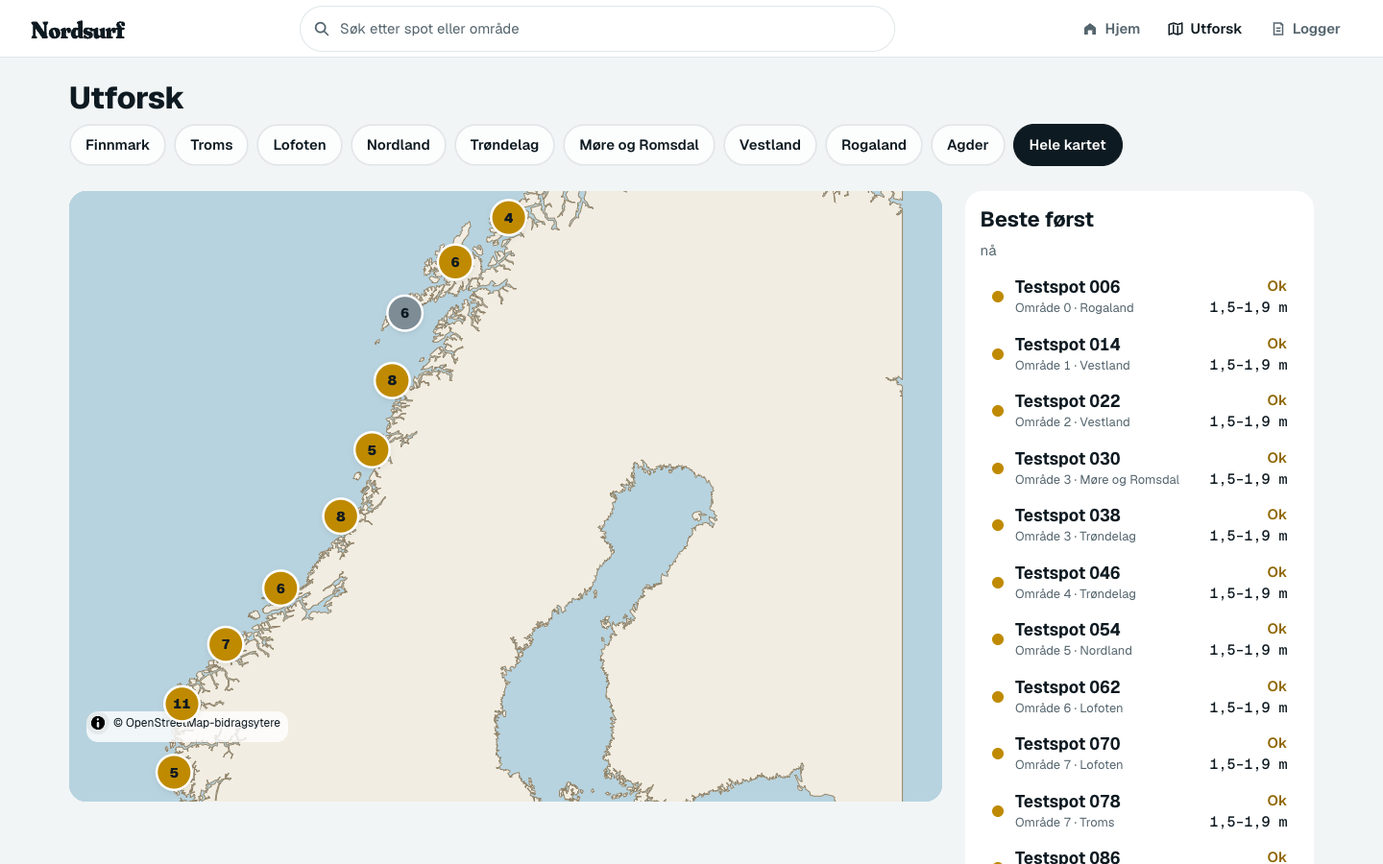
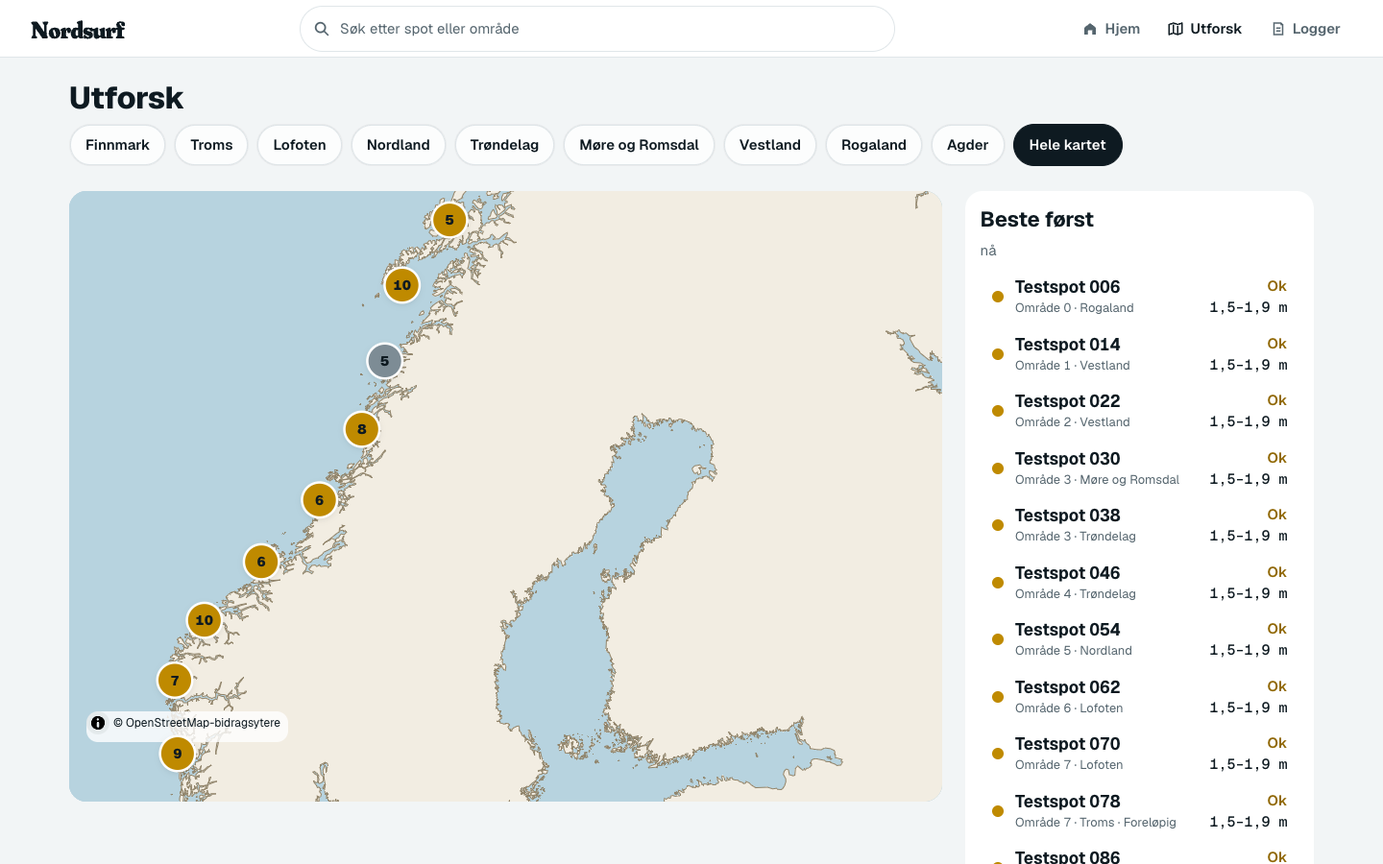
Forbud (Theodor 16.10, svar 3.3): «Surfing forbudt nå» og perioden i stedet for stjerner og ord - bare visning
I forbudsperioden: Hjem, tabell, søk, Utforsk (kort, liste, markører) og spotsiden (vurdering, langtidsvarsel,
dagfaner, kort) viser «Surfing forbudt (nå)» og «1. okt–31. mars, fuglefredning», ingen stjerner eller høyde;
spoten er aldri i «Beste økt»/«Neste beste» og farger ikke klyngen (st 0). Utenfor perioden vises den vanlig,
med en linje om forbudet ved stedsnavnet. godkjenn_spot.py skriver «grunn» (fuglefredning, naturreservat …).
Ratingen og varselet er urørt (timene merkes bare i en kopi på spotsiden). Tester i test_skalering_browser.
Fysikk-kontrollør: IKKE GODKJENT (lista utenfor kartet viste høyde; grafen/dagfanene beholdt stjerner) → rettet.

diff --git a/docs/js/ui.js b/docs/js/ui.js
@@ -28,9 +28,32 @@
     return (s.restriksjoner || []).some(r=> ["ferdselsforbud", "surfeforbud"].includes(r.type) && ["sjø", "strand", "begge"].includes(r.gjelder)
       && (!r.fra || !r.til || (r.fra <= r.til ? md >= r.fra && md <= r.til : md >= r.fra || md <= r.til)));
   }
+  // Theodor 16.10.2026: i forbudsperioden erstattes stjerner og ord med «Surfing forbudt nå» og perioden
+  // («1. okt–31. mars, fuglefredning»); utenfor perioden vises spoten vanlig, med en linje om forbudet.
+  const MND = ["jan", "feb", "mars", "april", "mai", "juni", "juli", "aug", "sep", "okt", "nov", "des"];
+  const mdTekst = (md)=>{ const [m, d] = md.split("-").map(Number); return `${d}. ${MND[m-1]}`; };
+  const forbudRestr = (s)=> (s.restriksjoner || []).filter(r=> ["ferdselsforbud", "surfeforbud"].includes(r.type) && ["sjø", "strand", "begge"].includes(r.gjelder));
+  const periodeTekst = (r)=> `${r.fra && r.til ? `${mdTekst(r.fra)}–${mdTekst(r.til)}` : "hele året"}${r.grunn ? ", " + r.grunn : ""}`;
+  function forbudInfo(s, t){
+    const md = osloMD(t==null ? Date.now() : t);
+    const r = forbudRestr(s).find(r=> !r.fra || !r.til || (r.fra <= r.til ? md >= r.fra && md <= r.til : md >= r.fra || md <= r.til));
+    return r ? {tittel: "Surfing forbudt nå", periode: periodeTekst(r), r} : null;
+  }
+  const forbudLinje = (s)=>{ const rs = forbudRestr(s); return rs.length ? rs.map(r=> `${r.type==="surfeforbud" ? "Surfing" : "Ferdsel"} forbudt ${periodeTekst(r)}`).join(" · ") : null; };
+  // nå-visningen i lister og kort: i forbudsperioden ingen stjerner, ordet «Surfing forbudt nå», ingen høyde
+  function naaVisning(s, h){
+    if(forbudNa(s)) return {st: 0, oh: {ord: "Surfing forbudt nå", hoyde: null, forbud: true}};
+    return {st: stars(h), oh: ordOgHoyde(h)};
+  }
+  // spotsiden: timene i forbudsperioden merkes (_forbud) i en kopi - grafen, dagfanene og kortene viser da ingen
+  // stjerner, ordet «Surfing forbudt» og ingen høyde. Selve varselet (og ratingen) er urørt.
+  function forbudKopi(s){
+    if(!forbudRestr(s).length || !s.hours) return s;
+    return {...s, hours: s.hours.map(h=> h && forbudInfo(s, Date.parse(h.t)) ? {...h, stars: 0, faded: 0, _forbud: true} : h)};
+  }
   const nyForelopig = (s)=> s.status==="forelopig" && !(s.forelopig_fra && Date.now() - Date.parse(s.forelopig_fra) >= FORELOPIG_DAGER*864e5);
   const iBesteOkt = (s, t)=> !nyForelopig(s) && !forbudNa(s, t);
-  const merker = (s)=> [s.status==="forelopig" ? "Foreløpig" : null, forbudNa(s) ? "Forbud nå" : null].filter(Boolean);
+  const merker = (s)=> [s.status==="forelopig" ? "Foreløpig" : null, forbudRestr(s).length ? forbudLinje(s) : null].filter(Boolean);
   const omrMerker = (s)=> [s.area, ...merker(s)].filter(Boolean).join(" · ");
   const stedText = (s)=>{ const r = regionOf(s); return [s.area && s.area!==r ? `${s.area} · ${r}` : (s.area || r), ...merker(s)].join(" · "); };
   const regions = ()=> (DATA.regions || []).map(r=>r.name);
@@ -92,20 +115,21 @@
     // dagssammendraget fra publish.best_hour(): «miss» = tallet/lyset mangler, «dark» = mørkt hele dagen, «over» = dagens lys er over
     const d = (s.dager || []).find(x=>x.d===key);
     if(dayOver(d)) return {cls:"over", st:null, h:null, t:null};
+    if(forbudInfo(s, Date.parse(key + "T12:00:00Z"))) return {cls:"forbud", st:null, h:null, t:null};   // surfing forbudt den dagen
     if(d && d.status==="dark") return {cls:"dark", st:null, h:null, t:null};   // før !d.h - en mørk dag har ingen time
     if(!d || d.status==="miss" || !d.h) return {cls:"miss", st:null, h:null, t:null};
     const st = stars(d.h);
     return {cls:`r-${min5(st)}`, st, h:d.h, t:d.h.t, start:d.start || d.h.t, slutt:d.slutt || d.h.t, lo:d.lo, hi:d.hi};
   }
   function ukeHtml(s, days, withLetters){
-    const cells = days.map(d=>{ const b = dayBest(s, d.key); const n = b.st!=null && b.st>=1 ? b.st : ""; const title = b.cls==="over" ? `${d.lang}: dagens lys er over` : b.cls==="miss" ? `${d.lang}: mangler data` : b.cls==="dark" ? `${d.lang}: mørkt` : `${d.lang}: ${b.st} ${b.st===1?"stjerne":"stjerner"}`; return `<i class="${b.cls}" title="${esc(title)}">${n}</i>`; }).join("");
+    const cells = days.map(d=>{ const b = dayBest(s, d.key); const n = b.st!=null && b.st>=1 ? b.st : ""; const title = b.cls==="forbud" ? `${d.lang}: surfing forbudt` : b.cls==="over" ? `${d.lang}: dagens lys er over` : b.cls==="miss" ? `${d.lang}: mangler data` : b.cls==="dark" ? `${d.lang}: mørkt` : `${d.lang}: ${b.st} ${b.st===1?"stjerne":"stjerner"}`; return `<i class="${b.cls}" title="${esc(title)}">${n}</i>`; }).join("");
     const letters = withLetters ? days.map((d, k)=>`<b class="${d.idag?"idag":""}">${esc(d.kort)}</b>`).join("") : "";
     return `<span class="uke" aria-hidden="true">${letters}${cells}</span>`;
   }
   function ukeAria(s, days){
-    return days.map(d=>{ const b = dayBest(s, d.key); return b.cls==="over" ? `${cap(d.lang)}: dagens lys er over` : b.cls==="miss" ? `${cap(d.lang)} mangler data` : b.cls==="dark" ? `${cap(d.lang)} mørkt` : `${cap(d.lang)} ${b.st} ${b.st===1?"stjerne":"stjerner"}`; }).join(", ");
+    return days.map(d=>{ const b = dayBest(s, d.key); return b.cls==="forbud" ? `${cap(d.lang)}: surfing forbudt` : b.cls==="over" ? `${cap(d.lang)}: dagens lys er over` : b.cls==="miss" ? `${cap(d.lang)} mangler data` : b.cls==="dark" ? `${cap(d.lang)} mørkt` : `${cap(d.lang)} ${b.st} ${b.st===1?"stjerne":"stjerner"}`; }).join(", ");
   }
-  function bestNow(s){ const h = naaOf(s); return {st: stars(h), hh: h ? (h.surf_height||0) : 0}; }
+  function bestNow(s){ const h = naaOf(s); const f = forbudNa(s); return {st: f ? 0 : stars(h), hh: f || !h ? 0 : (h.surf_height||0)}; }
   const byRatingNow = (a, b)=>{ const x = bestNow(a), y = bestNow(b); return y.st - x.st || y.hh - x.hh || a.name.localeCompare(b.name, "nb"); };
 
   /* ---------- hvem bryr brukeren seg om (Tillegg 2, punkt 3) ---------- */
@@ -167,7 +191,7 @@
     const favs = DATA.spots.filter(s=>isFavSpot(s.id));
     if(!favs.length) return "";
     return `<section class="sek"><h2 class="h2">Favoritter</h2></section><div class="favrad">${favs.map(s=>{
-      const h = naaOf(s), st = stars(h), oh = ordOgHoyde(h), vind = windText(h);
+      const h = naaOf(s), {st, oh} = naaVisning(s, h), vind = windText(h);
       return `<a class="kort tap favkort r-${min5(st)}" href="#spot=${esc(s.id)}" aria-label="${esc(`${s.name}: ${oh.ord}${oh.hoyde ? ", " + oh.hoyde + " m" : ""}${vind ? ", " + vind : ""}. ${ukeAria(s, days)}. Åpne spoten`)}">
         <div class="navn">${esc(s.name)}</div><div class="omr">${esc(s.area||"")} · nå</div>
         <div class="vurd"><div>${st ? starsSVG(st, 0) : ""}<div class="ord">${esc(oh.ord)}</div></div>${oh.hoyde ? `<div class="hoyde">${esc(oh.hoyde)}<small>m</small></div>` : ""}</div>
@@ -181,7 +205,7 @@
     return [...by.keys()].sort((a, b)=> (order.indexOf(a)+1 || 99) - (order.indexOf(b)+1 || 99) || a.localeCompare(b, "nb")).map(r=>({region: r, spots: by.get(r)}));
   }
   function radHtml(s, days){
-    const h = naaOf(s), st = stars(h), oh = ordOgHoyde(h);
+    const h = naaOf(s), {st, oh} = naaVisning(s, h);
     return `<a class="rad r-${min5(st)}" href="#spot=${esc(s.id)}" aria-label="${esc(`Åpne ${s.name}: ${oh.ord}${oh.hoyde ? ", " + oh.hoyde + " m" : ""}. ${ukeAria(s, days)}`)}">
       <span class="nm"><b>${esc(s.name)}</b><small>${esc(omrMerker(s))}</small><span class="na">${esc(oh.ord)}${oh.hoyde ? `<span class="num">${esc(oh.hoyde)} m</span>` : ""}</span></span>
       ${ukeHtml(s, days, false)}</a>`;
@@ -213,9 +237,10 @@
       const rows = [...g.spots].sort(byRatingNow).slice(0, all ? n : 5);
       return `<tr class="g"><td colspan="${2+days.length}">${esc(g.region)} <small>· ${n} ${n===1?"spot":"spots"}</small>${!all ? ` <button type="button" class="ghost liten visalle" data-region="${esc(g.region)}">Vis alle ${n}</button>` : ""}</td></tr>` +
         rows.map(s=>{
-          const h = naaOf(s), st = stars(h), oh = ordOgHoyde(h);
+          const h = naaOf(s), {st, oh} = naaVisning(s, h);
           const cells = days.map(d=>{ const b = dayBest(s, d.key);
             if(b.cls==="over") return `<td class="c"><span class="celle over" title="${esc(d.lang)}: dagens lys er over"></span></td>`;
+            if(b.cls==="forbud") return `<td class="c"><span class="celle null" title="${esc(d.lang)}: surfing forbudt">Forbudt</span></td>`;
             if(b.cls==="miss") return `<td class="c"><span class="celle miss" title="${esc(d.lang)}: mangler data">–</span></td>`;
             if(b.cls==="dark") return `<td class="c"><span class="celle miss" title="${esc(d.lang)}: mørkt">–</span></td>`;
             // grunnregelen (PR #12 punkt b): tallet mangler → «–»; ekte 0 (flatt, treffer ikke …) → ordet i grå rute, aldri «0,0»
@@ -265,7 +290,7 @@
     return DATA.spots.filter(hit).sort((a, b)=> pre(a) - pre(b) || byRatingNow(a, b));
   }
   function sradHtml(s){
-    const h = naaOf(s), st = stars(h), oh = ordOgHoyde(h);
+    const h = naaOf(s), {st, oh} = naaVisning(s, h);
     return `<a class="srad r-${min5(st)}" href="#spot=${esc(s.id)}" role="option"><span class="prikk" aria-hidden="true"></span><span class="nm"><b>${esc(s.name)}</b><small>${esc(stedText(s))}</small></span><span class="na">${esc(oh.ord)}${oh.hoyde ? `<span class="num">${esc(oh.hoyde)} m</span>` : ""}</span></a>`;
   }
   function resultsHtml(q){
@@ -391,7 +416,7 @@
       return;
     }
     if(S.tIso){ const i = s.hours.findIndex(h=>h.t===S.tIso); S.idx = i >= 0 ? i : null; S.tIso = null; }
-    Spot.render(root, s, S, {regionOf, stedText, close: closeSpot, nowIdx, usable, known, stars, dkOf, heightText, isDesktop});
+    Spot.render(root, forbudKopi(s), S, {regionOf, stedText, forbudInfo, forbudLinje, close: closeSpot, nowIdx, usable, known, stars, dkOf, heightText, isDesktop});
   }
   function render(){
     if(!DATA) return;
@@ -428,6 +453,6 @@
   }
   function refresh(){ if(DATA && started && S.view!=="sok") render(); }
   function goLegacy(mode){ const map = {home:"hjem", list:"hjem", peek:"hjem", half:"hjem", map:"utforsk", logger:"logger", innstillinger:"innstillinger"}; go(map[mode] || "hjem"); }
-  window.Front = { start, refresh, openSpot, go: goLegacy, state: S, closeSpot, helpers: {regionOf, stedText, forbudNa, iBesteOkt, nowIdx, usable, known, stars, lightOf, dayBest, heightText, ordOgHoyde, windText, weekDays, search, norm, bestSession, byRatingNow, dkOf, isDesktop, naaOf, regions, chosenRegion, setRegion, scope} };
+  window.Front = { start, refresh, openSpot, go: goLegacy, state: S, closeSpot, helpers: {regionOf, stedText, forbudNa, forbudInfo, forbudLinje, naaVisning, iBesteOkt, nowIdx, usable, known, stars, lightOf, dayBest, heightText, ordOgHoyde, windText, weekDays, search, norm, bestSession, byRatingNow, dkOf, isDesktop, naaOf, regions, chosenRegion, setRegion, scope} };
   window.start();
 })();

diff --git a/docs/js/utforsk.js b/docs/js/utforsk.js
@@ -24,14 +24,19 @@
   }
   // verdi per spot for valgt dag: nå = nå-timen; ellers dagens beste dagslystime (publish.best_hour)
   function valueFor(s, dayKeyOrNull){
+    // Theodor 16.10.2026: i forbudsperioden ingen stjerner - ordet «Surfing forbudt (nå)», og st 0 så spoten aldri
+    // farger klyngen (klyngefargen er beste st i klyngen). Bare visning.
     if(dayKeyOrNull!=null){
       const b = H().dayBest(s, dayKeyOrNull);
+      if(b.cls==="forbud"){ const fi = H().forbudInfo(s, Date.parse(dayKeyOrNull + "T12:00:00Z")); return {st:0, word:"Surfing forbudt", forbud:fi, miss:false, h:null, t:null, aria:`${s.name}: surfing forbudt (${fi ? fi.periode : ""})`}; }
       if(b.cls==="miss") return {st:0, word:"–", miss:true, h:null, t:null, aria:`${s.name}: tallet mangler`};
       if(b.cls==="dark") return {st:0, word:"Mørkt", miss:false, h:null, t:null, aria:`${s.name}: mørkt hele dagen`};
       const w = b.h ? ratingWord(b.h) : "–";
       return {st:b.st, word:w, miss:false, h:b.h, t:b.t, aria:`${s.name}: ${w}${b.st ? ", " + STR.starsAria(b.st, 0) : ""}`};
     }
     const h = H().naaOf(s);
+    const fi = H().forbudInfo(s);
+    if(fi) return {st:0, word:fi.tittel, forbud:fi, miss:false, h, t: h ? h.t : null, aria:`${s.name}: ${fi.tittel} (${fi.periode})`};
     if(!H().known(h)) return {st:0, word:"–", miss:true, h, t: h ? h.t : null, aria:`${s.name}: tallet mangler`};
     const st = H().stars(h), w = ratingWord(h);
     return {st, word:w, miss:false, h, t:h.t, aria:`${s.name}: ${w}${st ? ", " + STR.starsAria(st, 0) : ""}`};
@@ -91,16 +96,16 @@
     const v = valueFor(s, S.utforskDay); const h = v.h;
     const t = v.t ? new Date(v.t) : null;
     const tid = S.utforskDay==null ? "nå" : t ? `${fmtWdLong.format(t)} kl. ${fmtHour.format(t)}` : cap(fmtWdLong.format(new Date(S.utforskDay + "T11:00:00Z")));
-    const hoyde = H().ordOgHoyde(h).hoyde;
+    const hoyde = v.forbud ? null : H().ordOgHoyde(h).hoyde;
     return `<div class="topp"><div><div class="navn">${esc(s.name)}</div><div class="omr">${esc(H().stedText(s))} · ${esc(tid)}</div></div><button type="button" class="iconbtn lukk" id="kortLukk" aria-label="Lukk"><svg viewBox="0 0 20 20" aria-hidden="true"><path d="m5 5 10 10M15 5 5 15" stroke="currentColor" stroke-width="2" stroke-linecap="round"/></svg></button></div>
-      <div class="vurd r-${min5(v.st)}">${v.st ? starsSVG(v.st, 0) : ""}<span class="ord">${esc(v.word)}</span>${hoyde ? `<span class="num">${esc(hoyde)} m</span>` : ""}</div>
-      <div class="fakta"><div>Surf<b>${hoyde ? `${esc(hoyde)} m` : h && h.surf_height!=null ? esc(Spot.kroppshoyde(h) || ratingWord(h)) : "–"}</b></div><div>Svell ute<b>${h && h.swell_offshore!=null ? `${nf1.format(h.swell_offshore)} m${h.period!=null ? ` · ${nf0.format(h.period)} s` : ""}${h.dir_offshore!=null ? ` fra ${esc(compass(h.dir_offshore))}` : ""}` : "–"}</b></div><div>Vind<b>${h && h.wind_speed!=null ? `${nf0.format(h.wind_speed)} m/s ${esc(windLabel(h))}` : "–"}</b></div></div>
+      <div class="vurd r-${min5(v.st)}">${v.st ? starsSVG(v.st, 0) : ""}<span class="ord">${esc(v.word)}</span>${hoyde ? `<span class="num">${esc(hoyde)} m</span>` : ""}${v.forbud ? `<span class="omr">${esc(v.forbud.periode)}</span>` : ""}</div>
+      <div class="fakta"><div>Surf<b>${v.forbud ? "–" : hoyde ? `${esc(hoyde)} m` : h && h.surf_height!=null ? esc(Spot.kroppshoyde(h) || ratingWord(h)) : "–"}</b></div><div>Svell ute<b>${h && h.swell_offshore!=null ? `${nf1.format(h.swell_offshore)} m${h.period!=null ? ` · ${nf0.format(h.period)} s` : ""}${h.dir_offshore!=null ? ` fra ${esc(compass(h.dir_offshore))}` : ""}` : "–"}</b></div><div>Vind<b>${h && h.wind_speed!=null ? `${nf0.format(h.wind_speed)} m/s ${esc(windLabel(h))}` : "–"}</b></div></div>
       <button type="button" class="primary" id="kortApne">Se hele varselet</button>`;
   }
   function offListeHtml(region){
     const ps = Kart.offMapSpots().filter(p=> H().regionOf(p.s)===region).map(p=>({s: p.s, v: valueFor(p.s, S.utforskDay)})).sort((a, b)=> b.v.st - a.v.st || a.s.name.localeCompare(b.s.name, "nb"));
     return `<div class="topp"><div><div class="navn">${esc(region)}</div><div class="omr">${ps.length} ${ps.length===1 ? "spot" : "spots"} utenfor kartet</div></div><button type="button" class="iconbtn lukk" id="kortLukk" aria-label="Lukk"><svg viewBox="0 0 20 20" aria-hidden="true"><path d="m5 5 10 10M15 5 5 15" stroke="currentColor" stroke-width="2" stroke-linecap="round"/></svg></button></div>
-      <div class="alfa offliste" role="list">${ps.map(({s, v})=>{ const hoyde = H().ordOgHoyde(v.h).hoyde; return `<a class="srad r-${min5(v.st)}" href="#spot=${esc(s.id)}${v.t ? "&t=" + esc(v.t) : ""}" role="listitem" aria-label="${esc(v.aria)}"><span class="prikk${v.miss ? " miss" : ""}" aria-hidden="true"></span><span class="nm"><b>${esc(s.name)}</b><small>${esc(H().stedText(s))}</small></span><span class="na">${esc(v.word)}${hoyde ? `<span class="num">${esc(hoyde)} m</span>` : ""}</span></a>`; }).join("")}</div>`;
+      <div class="alfa offliste" role="list">${ps.map(({s, v})=>{ const hoyde = v.forbud ? null : H().ordOgHoyde(v.h).hoyde; return `<a class="srad r-${min5(v.st)}" href="#spot=${esc(s.id)}${v.t ? "&t=" + esc(v.t) : ""}" role="listitem" aria-label="${esc(v.aria)}"><span class="prikk${v.miss ? " miss" : ""}" aria-hidden="true"></span><span class="nm"><b>${esc(s.name)}</b><small>${esc(H().stedText(s))}</small></span><span class="na">${esc(v.word)}${hoyde ? `<span class="num">${esc(hoyde)} m</span>` : ""}</span></a>`; }).join("")}</div>`;
   }
   function renderKort(){
     const el = $("#kartKort"); const s = S.picked && DATA.spots.find(x=>x.id===S.picked);
@@ -118,7 +123,7 @@
       .sort((a, b)=> b.v.st - a.v.st || ((b.v.h && b.v.h.surf_height)||0) - ((a.v.h && a.v.h.surf_height)||0) || a.s.name.localeCompare(b.s.name, "nb"));
     const dag = S.utforskDay==null ? "nå" : cap(fmtWdLong.format(new Date(S.utforskDay + "T11:00:00Z")));
     const shown = S.listeAlle ? spots : spots.slice(0, 30);
-    el.innerHTML = `<div class="kort"><h2 class="h2" style="margin-bottom:8px">Beste først</h2><p class="sub" style="margin:0 0 8px">${esc(dag)}${reg ? ` · ${esc(reg)}` : ""}</p><div class="alfa lang" role="list">${shown.map(({s, v})=>{ const hoyde = H().ordOgHoyde(v.h).hoyde;
+    el.innerHTML = `<div class="kort"><h2 class="h2" style="margin-bottom:8px">Beste først</h2><p class="sub" style="margin:0 0 8px">${esc(dag)}${reg ? ` · ${esc(reg)}` : ""}</p><div class="alfa lang" role="list">${shown.map(({s, v})=>{ const hoyde = v.forbud ? null : H().ordOgHoyde(v.h).hoyde;
       return `<a class="srad r-${min5(v.st)}" href="#spot=${esc(s.id)}${v.t ? "&t=" + esc(v.t) : ""}" role="listitem" aria-label="${esc(v.aria)}"><span class="prikk${v.miss ? " miss" : ""}" aria-hidden="true"></span><span class="nm"><b>${esc(s.name)}</b><small>${esc(H().stedText(s))}</small></span><span class="na">${esc(v.word)}${hoyde ? `<span class="num">${esc(hoyde)} m</span>` : ""}</span></a>`; }).join("")}</div>${shown.length < spots.length ? `<button type="button" class="ghost visflere" id="listeFlere">Vis alle ${spots.length}</button>` : ""}</div>`;
     const more = $("#listeFlere", el); if(more) more.onclick = ()=>{ S.listeAlle = true; renderListe(); };
   }

diff --git a/docs/js/spot.js b/docs/js/spot.js
@@ -25,7 +25,7 @@
     // Theodors regel (c) 05.10.2026 (app.js heightMForDisplay): «Blåst ut» viser surfehøyden hvis
     // den er reell, ellers BarentsWatch sin totalhøyde; «Stormsjø» ALLTID totalhøyden; Flatt/Treffer
     // ikke har ikke noe pålitelig tall. Settene (1,27 × Hb) hører bare til surfehøyden.
-    if(!h) return null;
+    if(!h || h._forbud) return null;   // forbudsperiode: ingen høyde (Theodor 16.10.2026)
     const v = heightMForDisplay(h);
     if(v==null) return null;
     const sets = (!h.low_reason || (h.low_reason==="blown_out" && h.surf_height!=null && h.surf_height > 0)) && h.surf_height_sets!=null ? h.surf_height_sets : null;
@@ -197,7 +197,11 @@
     const topp = `<div class="spot-topp"><button type="button" class="back" id="spotBack" aria-label="Tilbake"><svg viewBox="0 0 18 18" aria-hidden="true"><path d="M11 3 5 9l6 6" fill="none" stroke="currentColor" stroke-width="2" stroke-linecap="round" stroke-linejoin="round"/></svg>${pc ? "Tilbake" : ""}</button>
         <div class="tittel"><h1>${esc(s.name)}</h1><div class="omr">${esc(H.stedText(s))}</div></div>${favBtnHtml(s.id, false)}</div>
       <div class="naa"><span>${tid}</span>${atNow ? "" : `<button type="button" class="tilbakena" id="tilbakeNa">Tilbake til nå</button>`}</div>`;
-    const vurdering = `<div class="vurdering"><div class="r-${Math.min(5,st)}">${st ? starsSVG(st, h.faded||0, true) : ""}<div class="ord r-${Math.min(5,st)}">${esc(h ? ratingWord(h) : "–")}</div></div><div class="sikker">${esc(sikkerhet(h))}</div></div>`;
+    // Theodor 16.10.2026: i forbudsperioden «Surfing forbudt nå» og perioden i stedet for stjerner og ord (bare visning)
+    const fb = H.forbudInfo ? H.forbudInfo(s, t.getTime()) : null;
+    const vurdering = fb
+      ? `<div class="vurdering"><div class="forbud"><div class="ord">${esc(fb.tittel)}</div><div class="periode">${esc(fb.periode)}${fb.r.verneomrade ? " · " + esc(fb.r.verneomrade) : ""}</div></div></div>`
+      : `<div class="vurdering"><div class="r-${Math.min(5,st)}">${st ? starsSVG(st, h.faded||0, true) : ""}<div class="ord r-${Math.min(5,st)}">${esc(h ? ratingWord(h) : "–")}</div></div><div class="sikker">${esc(sikkerhet(h))}</div></div>`;   // linja om forbudet står i overskriften (stedText)
     const venstre = `${vurdering}${kortHtml(s, h)}`;
     // åpnet på «nå» (S.idx null): grafen viser i dag bare hvis det er minst 2 lyse timer igjen, ellers i morgen -
     // kortene øverst viser fortsatt nå (Theodor 15.10, punkt 3)

diff --git a/docs/css/ui.css b/docs/css/ui.css
@@ -188,6 +188,7 @@ h1,h2,h3{margin:0;font-family:var(--display);letter-spacing:-.01em}
 .uke i.miss{background:transparent;color:transparent;border:1px dashed var(--line-strong)}
 .uke i.dark{background:transparent;color:transparent;box-shadow:inset 0 0 0 1px var(--line)}
 .uke i.over{background:transparent;color:transparent;box-shadow:none;border:0}
+.uke i.forbud{background:var(--sunken);color:transparent;box-shadow:inset 0 0 0 1px var(--line)}
 .uke b{color:var(--muted);font-family:var(--body);font-size:0.6875rem;font-weight:600;height:1rem}
 .uke b.idag{color:var(--ink)}
 .stars .st.f{fill:var(--rc);stroke:var(--rc-ink);stroke-width:1;stroke-dasharray:none;opacity:.32}   /* tapt stjerne: dempet fyll, ikke stiplet (Theodor 15.10); aria sier «tapt på vind eller tidevann» */
@@ -529,3 +530,8 @@ h1,h2,h3{margin:0;font-family:var(--display);letter-spacing:-.01em}
 .offliste{max-height:40vh;overflow:auto;margin-top:8px}
 .tabellboks{max-height:70vh;overflow:auto}
 .tabellboks thead th{position:sticky;top:0;background:var(--raised);z-index:1;box-shadow:0 1px 0 var(--line)}
+
+/* Theodor 16.10.2026: forbudsperiode i stedet for stjerner og ord (spotsiden) */
+.vurdering .forbud .ord{color:var(--ink)}
+.vurdering .forbud .periode{color:var(--muted);font-size:var(--fs-secondary);margin-top:4px}
+.forbudlinje{color:var(--muted);font-size:var(--fs-secondary);margin:6px 0 0}

diff --git a/docs/js/kart.js b/docs/js/kart.js
@@ -196,7 +196,8 @@
     const order = groups.map((g, i)=>({g, i})).sort((a, b)=> (b.g.members.some(m=>m.p.id===selected) ? 1 : 0) - (a.g.members.some(m=>m.p.id===selected) ? 1 : 0) || Math.max(...b.g.members.map(m=>m.v.st||0)) - Math.max(...a.g.members.map(m=>m.v.st||0)));
     for(const {g} of order){
       if(g.members.length > 1){
-        const best = g.members.reduce((a, b)=> (b.v.st||0) > (a.v.st||0) ? b : a);
+        // ved likhet foretrekkes et medlem som ikke er forbudt (aria-teksten «beste …»); fargen er uansett beste st
+        const best = g.members.reduce((a, b)=> (b.v.st||0) > (a.v.st||0) || ((b.v.st||0) === (a.v.st||0) && a.v.forbud && !b.v.forbud) ? b : a);
         const ids = g.members.map(m=>m.p.id).join(",");
         html.push(`<button type="button" class="klynge r-${Math.min(5, best.v.st||0)}" style="transform:translate3d(${(g.x-22).toFixed(1)}px,${(g.y-22).toFixed(1)}px,0)" data-ids="${esc(ids)}" aria-label="${esc(`${g.members.length} spots, beste ${best.v.word || "–"}. Zoom inn`)}"><span class="ring"><b>${g.members.length}</b></span></button>`);
         continue;

diff --git a/docs/sw.js b/docs/sw.js
@@ -4,7 +4,7 @@
 // hånd. Må stemme med filene, ellers oppdager ikke nettleseren at
 // sw.js-scriptet er likt som før og lar være å hente nytt innhold, sjøl om
 // siden er pushet (se CLAUDE.md sin arbeidsmåte og STATUS.md, 26.09-03.10.2026).
-const CACHE = "nordsurf-c2baf7c416db";
+const CACHE = "nordsurf-5295eec69a57";
 const TILES = CACHE + "-fliser";   // detaljflisene (range-biter), eget tak - byttes sammen med CACHE
 const TILES_MAX_ENTRIES = 600;      // ca. 600 range-biter à 1-60 KB: under ca. 15 MB
 // S3 (16.10.2026): listen hadde to filer som ikke finnes (css/kart.css, js/front.js) - da feiler

diff --git a/docs/js/app.js b/docs/js/app.js
@@ -201,6 +201,7 @@ function zeroWord(h){
 }
 function ratingWord(h){
   if(!h) return "–";
+  if(h._forbud) return "Surfing forbudt";   // time i en forbudsperiode (ui.js forbudKopi, Theodor 16.10.2026) - bare visning
   // 0 stjerner uten grunn OG uten surfehøyde: tallet mangler - aldri «Flatt»
   // (grunnregelen; fysikk-kontrollør 09.10.2026, 0 slike timer i dag)
   if(!(h.stars) && !h.low_reason && h.surf_height==null) return "–";

diff --git a/fetcher/test_skalering_browser.py b/fetcher/test_skalering_browser.py
@@ -67,7 +67,8 @@ def main():
     # surfeforbud som gjelder nå (1.10-31.3) - begge skal få merkelapp og holdes utenfor «Beste økt»
     by_id = {s["id"]: s for s in big["spots"]}
     by_id["test078"].update(status="forelopig", forelopig_fra=T0.date().isoformat())
-    by_id["test079"]["restriksjoner"] = [{"type": "surfeforbud", "fra": "10-01", "til": "03-31", "gjelder": "sjø"}]
+    by_id["test079"]["restriksjoner"] = [{"type": "surfeforbud", "fra": "10-01", "til": "03-31", "gjelder": "sjø", "grunn": "fuglefredning",
+                                          "verneomrade": "Testfredning fuglefredningsområde"}]
     overview, details = publish.split(big, regions_cfg=regions_cfg)
     OV_BODY = json.dumps(overview, ensure_ascii=False, separators=(",", ":"))
     DET_BODY = {sid: json.dumps(d, ensure_ascii=False, separators=(",", ":")) for sid, d in details.items()}
@@ -147,11 +148,15 @@ def main():
                 lbl = page.evaluate("""() => Object.fromEntries([...document.querySelectorAll('#viewHjem a.rad, #viewHjem table.spots tr.s')]
                     .map(r => [r.querySelector('b').textContent.trim(), r.textContent]).filter(([n]) => n === 'Testspot 078' || n === 'Testspot 079'))""")
                 if lbl:   # radene vises (mobil: 5 beste; nett: tabellen)
-                    assert all(("Foreløpig" in t) if n == "Testspot 078" else ("Forbud nå" in t) for n, t in lbl.items()), lbl
+                    assert all(("Foreløpig" in t) if n == "Testspot 078" else ("Surfing forbudt nå" in t) for n, t in lbl.items()), lbl
                 f79 = page.evaluate("""() => { const H = Front.helpers, s = DATA.spots.find(x => x.id === 'test079'), n = DATA.spots.find(x => x.id === 'test000');
-                    return [H.forbudNa(s), H.stedText(s), H.forbudNa(s, Date.parse('2026-05-01T12:00:00Z')), H.forbudNa(n), H.iBesteOkt(s, Date.parse('2026-05-01T12:00:00Z'))]; }""")
-                assert f79[0] is True and "Forbud nå" in f79[1] and f79[2] is False and f79[3] is False and f79[4] is True, f79
-                print(f"C.4 ({label}): Beste økt = {best_name}, merkelapper {sorted(lbl)}, Forbud nå 1.10-31.3 (ikke 1.5) - OK")
+                    const fi = H.forbudInfo(s), v = H.naaVisning(s, H.naaOf(s));
+                    return [H.forbudNa(s), H.stedText(s), H.forbudNa(s, Date.parse('2026-05-01T12:00:00Z')), H.forbudNa(n), H.iBesteOkt(s, Date.parse('2026-05-01T12:00:00Z')),
+                            fi && fi.tittel, fi && fi.periode, v.st, v.oh.ord, v.oh.hoyde]; }""")
+                # Theodor 16.10: i perioden «Surfing forbudt nå» + «1. okt–31. mars, fuglefredning», ingen stjerner/høyde; linje om forbudet alltid
+                assert f79[0] is True and "Surfing forbudt 1. okt–31. mars" in f79[1] and f79[2] is False and f79[3] is False and f79[4] is True, f79
+                assert f79[5] == "Surfing forbudt nå" and f79[6] == "1. okt–31. mars, fuglefredning" and f79[7] == 0 and f79[8] == "Surfing forbudt nå" and f79[9] is None, f79
+                print(f"C.4 ({label}): Beste økt = {best_name}, merkelapper {sorted(lbl)}, «Surfing forbudt nå» 1.10-31.3 (ikke 1.5) - OK")
                 shot("hjem")
                 # 8. nett-tabellen: regionfilter, «Vis alle», sticky
                 if not mobile:
@@ -196,12 +201,24 @@ def main():
                 reg_chip = page.query_selector("#utforskChips [data-view='Troms']")
                 assert reg_chip, "regionbrikken Troms mangler"
                 reg_chip.click(); page.wait_for_timeout(900); pills_ok("Troms"); shot("utforsk-troms")
+                if not mobile:   # Theodor 16.10: forbudt spot i Utforsk-lista - ordet i stedet for stjerner, st 0 (farger ikke klyngen)
+                    row = page.evaluate("""() => { const a = [...document.querySelectorAll('#utforskListe .srad')].find(r => r.textContent.includes('Testspot 079'));
+                        return a ? [a.textContent, a.className, a.getAttribute('aria-label')] : null; }""")
+                    assert row and "Surfing forbudt nå" in row[0] and "r-0" in row[1] and "1. okt–31. mars" in row[2], row
+                    print(f"Utforsk ({label}): forbudt spot vises som «Surfing forbudt nå», r-0 - OK")
                 print(f"2/3 ({label}): Utforsk hele kartet ({n_cl} klynger) og Troms uten overlappende lapper - OK")
                 # 4. åpne en spot laster nøyaktig én detaljfil
                 first = overview["spots"][0]["id"] if any(s["region"] == "Troms" for s in overview["spots"]) else overview["spots"][0]["id"]
                 troms_id = next(s["id"] for s in overview["spots"] if s["region"] == "Troms")
                 go(f"#spot={troms_id}", "#viewSpot:not([hidden]) .vurdering .ord")
                 assert loaded["det"] == [troms_id], loaded["det"]
+                # Theodor 16.10: spotsiden i forbudsperioden - «Surfing forbudt nå» og perioden, ingen stjerner
+                go("#spot=test079", "#viewSpot:not([hidden]) .vurdering .forbud")
+                vt = page.text_content("#viewSpot .vurdering").strip()
+                assert "Surfing forbudt nå" in vt and "1. okt–31. mars, fuglefredning" in vt and not page.query_selector("#viewSpot .vurdering .stars"), vt
+                lt = page.text_content("#viewSpot #langtid") or ""
+                assert "Surfing forbudt" in lt and not page.query_selector("#viewSpot #langtid .stars"), lt[:200]
+                print(f"Forbud på spotsiden ({label}): «{vt[:60]}», langtidsvarselet uten stjerner - OK")
                 ctx.close()
             browser.close()
     finally:

diff --git a/tools/godkjenn_spot.py b/tools/godkjenn_spot.py
@@ -35,6 +35,17 @@ VERN_NEAR_M = 200
 KILDE = "liste 15.10 + spotfabrikken"
 
 
+def grunn(navn):
+    """Kort grunn til visningen («1. okt-31. mars, fuglefredning») ut fra verneområdets navn."""
+    n = (navn or "").lower()
+    for nokkel, ord_ in (("fuglefred", "fuglefredning"), ("dyrelivsfred", "dyrelivsfredning"), ("plantefred", "plantefredning"),
+                         ("naturreservat", "naturreservat"), ("nasjonalpark", "nasjonalpark"), ("landskapsvern", "landskapsvern"),
+                         ("marin", "marint verneområde")):
+        if nokkel in n:
+            return ord_
+    return navn
+
+
 def restriksjoner(sid):
     if not VERN.exists():
         return []
@@ -47,7 +58,7 @@ def restriksjoner(sid):
                 continue
             if r.get("type") in ("ferdselsforbud", "surfeforbud"):
                 out.append({"type": r["type"], "fra": r.get("fra"), "til": r.get("til"), "gjelder": r["gjelder"],
-                            "verneomrade": h["navn"], "kilde": r.get("kilde")})
+                            "grunn": grunn(h["navn"]), "verneomrade": h["navn"], "kilde": r.get("kilde")})
     return out
 
 
